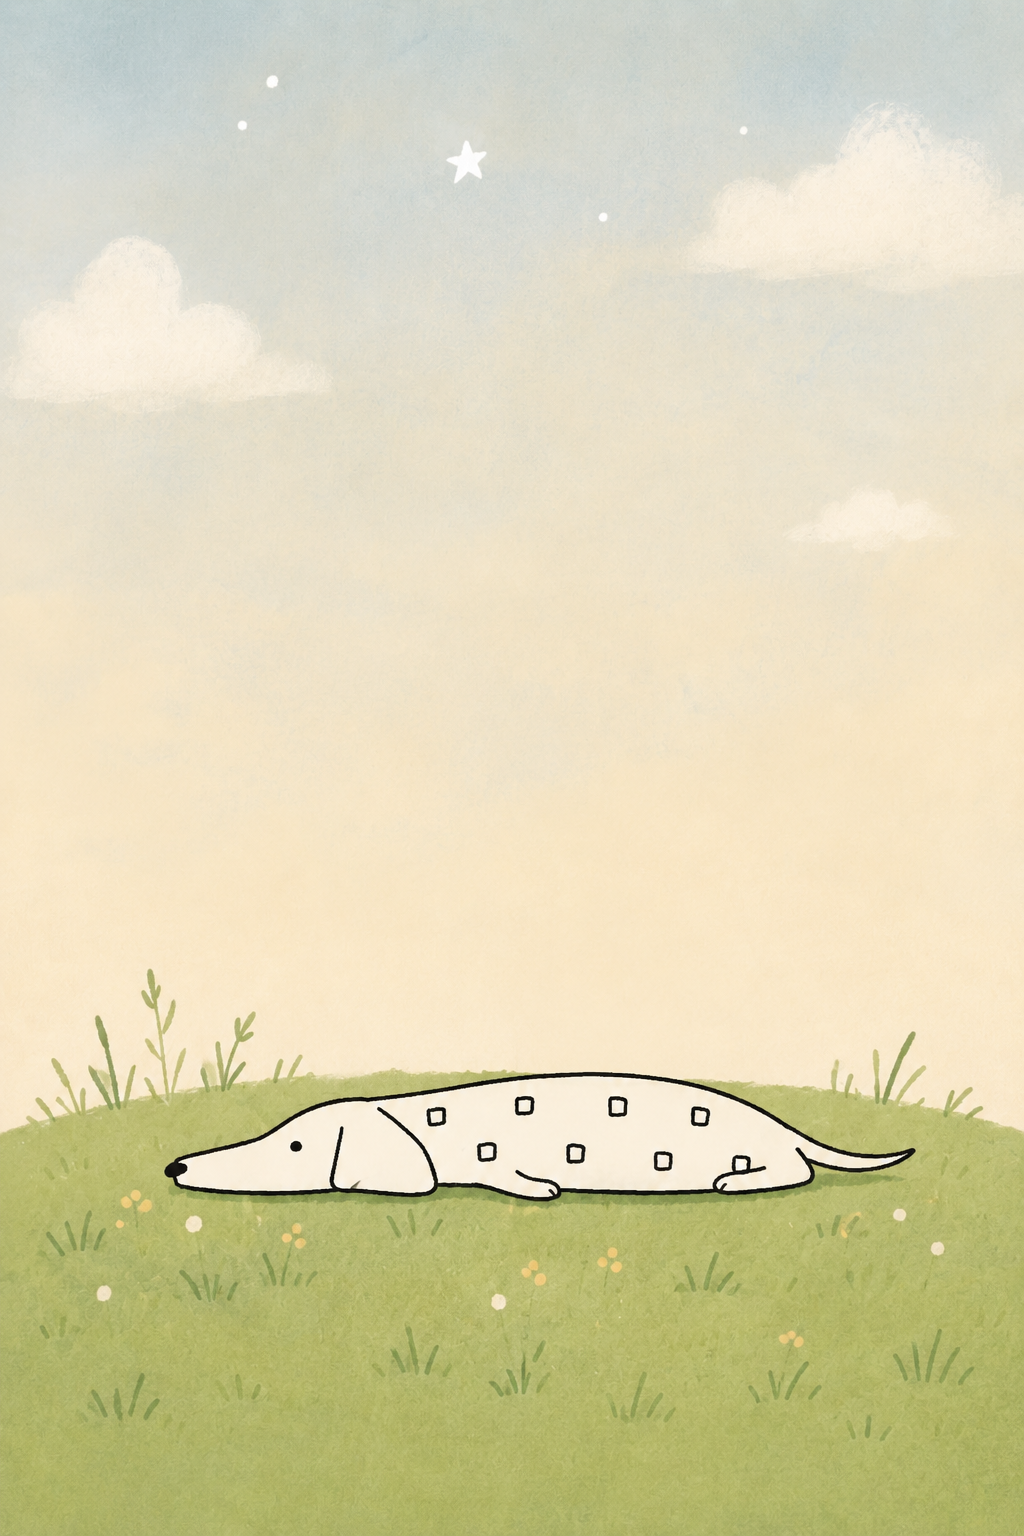
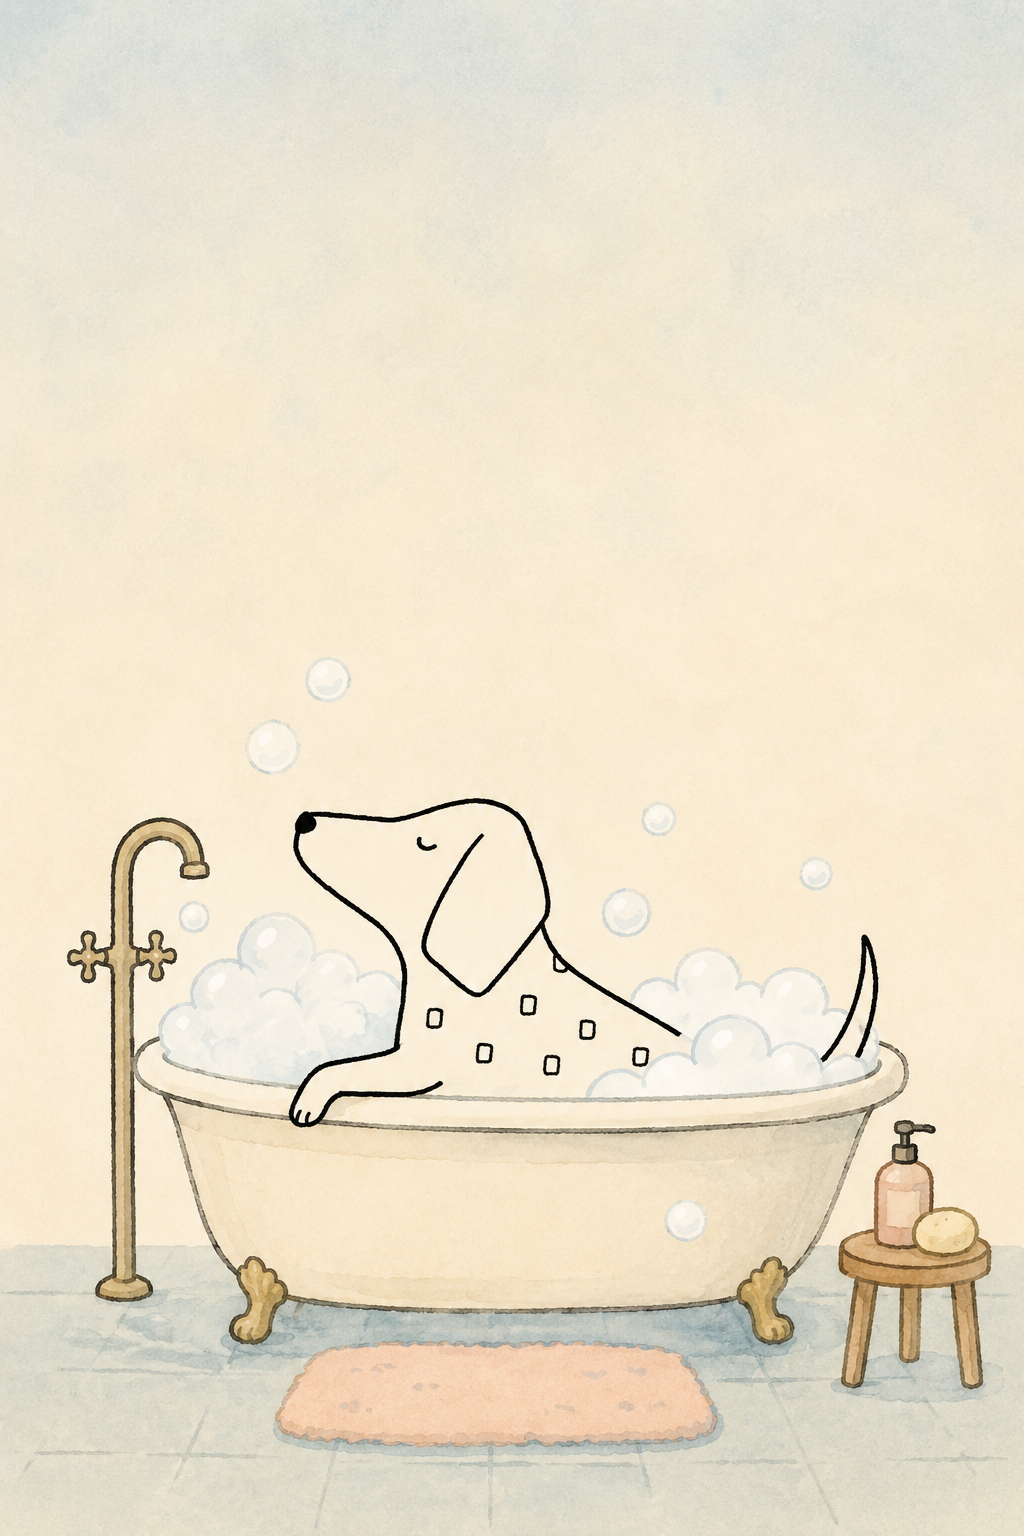
fix line dog idle poop bath assets

diff --git a/sw.js b/sw.js
@@ -1,21 +1,21 @@
-const CACHE_NAME = "azhi-companion-v25-2-line-dog-assets-2";
+const CACHE_NAME = "azhi-companion-v25-2-line-dog-assets-3";
 
 const CORE_ASSETS = [
   "./",
   "./index.html",
-  "./styles.css?v=25-line-dog-assets-2",
-  "./app.js?v=25-line-dog-assets-2",
-  "./drive-targets.config.js?v=25-line-dog-assets-2",
-  "./flowyear-standby-phrases.adapter.js?v=25-line-dog-assets-2",
-  "./standby-phrases.json?v=25-line-dog-assets-2",
-  "./manifest.webmanifest?v=25-line-dog-assets-2",
-  "./assets/line-dog/line-dog-idle.png?v=25-line-dog-assets-2",
-  "./assets/line-dog/line-dog-bath.png?v=25-line-dog-assets-2",
-  "./assets/line-dog/line-dog-sleep.png?v=25-line-dog-assets-2",
-  "./assets/line-dog/line-dog-poop.png?v=25-line-dog-assets-2",
-  "./assets/line-dog/line-dog-hungry.png?v=25-line-dog-assets-2",
-  "./assets/line-dog/line-dog-flat.png?v=25-line-dog-assets-2",
-  "./assets/line-dog/line-dog-werewolf-note.png?v=25-line-dog-assets-2",
+  "./styles.css?v=25-line-dog-assets-3",
+  "./app.js?v=25-line-dog-assets-3",
+  "./drive-targets.config.js?v=25-line-dog-assets-3",
+  "./flowyear-standby-phrases.adapter.js?v=25-line-dog-assets-3",
+  "./standby-phrases.json?v=25-line-dog-assets-3",
+  "./manifest.webmanifest?v=25-line-dog-assets-3",
+  "./assets/line-dog/line-dog-idle.png?v=25-line-dog-assets-3",
+  "./assets/line-dog/line-dog-bath.png?v=25-line-dog-assets-3",
+  "./assets/line-dog/line-dog-sleep.png?v=25-line-dog-assets-3",
+  "./assets/line-dog/line-dog-poop.png?v=25-line-dog-assets-3",
+  "./assets/line-dog/line-dog-hungry.png?v=25-line-dog-assets-3",
+  "./assets/line-dog/line-dog-flat.png?v=25-line-dog-assets-3",
+  "./assets/line-dog/line-dog-werewolf-note.png?v=25-line-dog-assets-3",
   "./assets/icons/icon-192.png?v=25",
   "./assets/icons/icon-512.png?v=25"
 ];

diff --git a/app.js b/app.js
@@ -42,37 +42,37 @@ const lineDogAssetLookup = {
     mode: "發呆",
     proposedFileName: "line-dog-idle.png",
     status: "canon",
-    src: "assets/line-dog/line-dog-idle.png?v=25-line-dog-assets-2",
+    src: "assets/line-dog/line-dog-idle.png?v=25-line-dog-assets-3",
   },
   bath: {
     mode: "泡泡浴",
     proposedFileName: "line-dog-bath.png",
     status: "canon",
-    src: "assets/line-dog/line-dog-bath.png?v=25-line-dog-assets-2",
+    src: "assets/line-dog/line-dog-bath.png?v=25-line-dog-assets-3",
   },
   sleep: {
     mode: "睡覺",
     proposedFileName: "line-dog-sleep.png",
     status: "canon",
-    src: "assets/line-dog/line-dog-sleep.png?v=25-line-dog-assets-2",
+    src: "assets/line-dog/line-dog-sleep.png?v=25-line-dog-assets-3",
   },
   poop: {
     mode: "便便",
     proposedFileName: "line-dog-poop.png",
     status: "canon",
-    src: "assets/line-dog/line-dog-poop.png?v=25-line-dog-assets-2",
+    src: "assets/line-dog/line-dog-poop.png?v=25-line-dog-assets-3",
   },
   hungry: {
     mode: "我餓了",
     proposedFileName: "line-dog-hungry.png",
     status: "canon",
-    src: "assets/line-dog/line-dog-hungry.png?v=25-line-dog-assets-2",
+    src: "assets/line-dog/line-dog-hungry.png?v=25-line-dog-assets-3",
   },
   flat: {
     mode: "扁了",
     proposedFileName: "line-dog-flat.png",
     status: "canon",
-    src: "assets/line-dog/line-dog-flat.png?v=25-line-dog-assets-2",
+    src: "assets/line-dog/line-dog-flat.png?v=25-line-dog-assets-3",
   },
 };
 

diff --git a/index.html b/index.html
@@ -20,11 +20,11 @@
     <meta name="apple-mobile-web-app-title" content="M × A OS">
     <meta name="apple-mobile-web-app-status-bar-style" content="default">
     <title>Monika & Azhi Universe OS</title>
-    <link rel="manifest" href="manifest.webmanifest?v=25-line-dog-assets-2">
+    <link rel="manifest" href="manifest.webmanifest?v=25-line-dog-assets-3">
     <link rel="icon" href="assets/icons/icon-192.png?v=25" type="image/png" sizes="192x192">
     <link rel="icon" href="assets/icons/icon-512.png?v=25" type="image/png" sizes="512x512">
     <link rel="apple-touch-icon" href="assets/icons/icon-192.png?v=25">
-    <link rel="stylesheet" href="styles.css?v=25-line-dog-assets-2">
+    <link rel="stylesheet" href="styles.css?v=25-line-dog-assets-3">
   </head>
   <body>
     <main class="phone-shell companion-scene" aria-label="Monika & Azhi Universe OS">
@@ -61,7 +61,7 @@
           <article class="panel dog-contract-panel is-hidden" id="dogContractPanel">
             <p class="panel-label">線條狗微訊號</p>
             <div class="dog-scene">
-              <img class="dog-state-image" id="dogStateImage" src="assets/line-dog/line-dog-idle.png?v=25-line-dog-assets-2" alt="線條狗發呆">
+              <img class="dog-state-image" id="dogStateImage" src="assets/line-dog/line-dog-idle.png?v=25-line-dog-assets-3" alt="線條狗發呆">
               <h2 id="dogStatus">線條狗正在發呆。</h2>
               <p id="dogStatusLine">只記錄，不分析。</p>
             </div>
@@ -119,14 +119,14 @@
       <footer class="standby-footer">Monika & Azhi Universe OS — We being.</footer>
     </main>
 
-    <script src="drive-targets.config.js?v=25-line-dog-assets-2"></script>
-    <script src="flowyear-standby-phrases.adapter.js?v=25-line-dog-assets-2"></script>
+    <script src="drive-targets.config.js?v=25-line-dog-assets-3"></script>
+    <script src="flowyear-standby-phrases.adapter.js?v=25-line-dog-assets-3"></script>
     <script>
       window.AZHI_DIARY_PERSISTENCE = {
         enabled: true,
         endpoint: "https://azhi-companion.vercel.app/api/drive-draft"
       };
     </script>
-    <script src="app.js?v=25-line-dog-assets-2"></script>
+    <script src="app.js?v=25-line-dog-assets-3"></script>
   </body>
 </html>